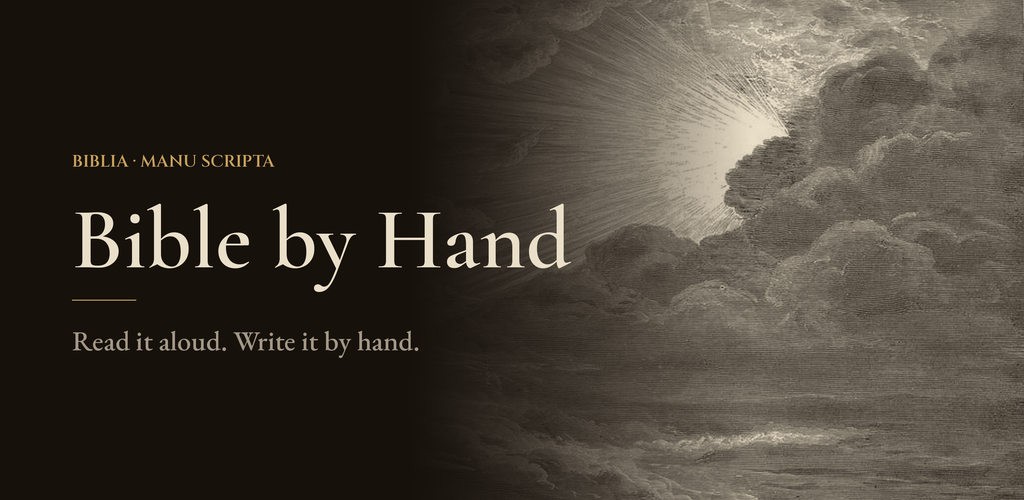
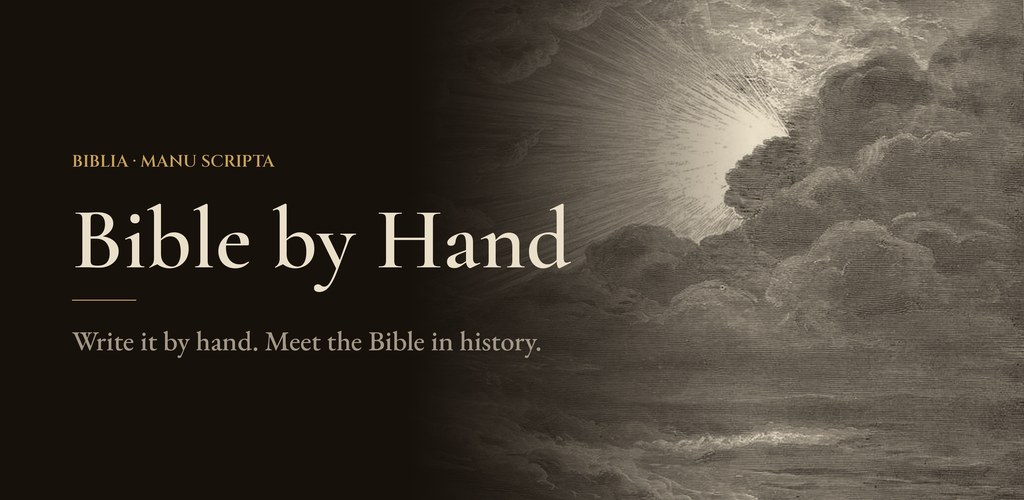
1.5.0 release prep: feature graphics, store slots (History in the Bible replaces Prayer), listing, Play release notes
Claude-Session: https://claude.ai/code/session_01ECt5JBbWXqLioMY8udyyYS

Changed region(s): [[0.0625, 0.66, 0.5312, 0.72]]

diff --git a/scripts/store_frame.py b/scripts/store_frame.py
@@ -7,12 +7,12 @@ R='/home/user/todaybible'; F=R+'/.cache/'; OUT=R+'/docs/store/graphics'
 SRC=sys.argv[1]
 LIGHT=dict(bg=(0xF4,0xEF,0xE6), ink=(0x1F,0x1A,0x15), gilt=(0x9A,0x6B,0x1F), hair=(0xD6,0xCF,0xC2))
 DARK=dict(bg=(0x17,0x11,0x0C), ink=(0xEA,0xDF,0xC8), gilt=(0xC7,0xA3,0x5D), hair=(0x3A,0x32,0x2A))
-NAMES=['intro','today','opener','type','aloud','gallery','prayer','record']
-DARKS={'intro','opener','gallery'}
-CAPS=['BIBLIA · MANU SCRIPTA','HODIE','EXODUS · XIV','SCRIBERE','RESPONSORIUM','COLLECTIO','ORATIO','BIBLIA MEA']
+NAMES=['intro','today','opener','type','aloud','gallery','story','record']
+DARKS={'intro','opener','gallery','story'}
+CAPS=['BIBLIA · MANU SCRIPTA','HODIE','EXODUS · XIV','SCRIBERE','RESPONSORIUM','COLLECTIO','HISTORIA','BIBLIA MEA']
 CAP={
- 'ko':["하루 한 장, 판화와 함께 여는 말씀","오늘 쓸 자리와 기도를 한눈에","장을 펼치면 도레의 판화가 먼저","한 글자씩, 타자로 옮겨 쓰기","인도 목소리와 한 절씩 교독","다 쓴 장마다 판화 한 점이 걸려요","아침부터 밤까지, 말씀으로 기도","쓸수록 채워지는 나만의 성경"],
- 'en':["One chapter a day, opened with an engraving","Today's place and prayer at a glance","Each chapter opens with a Doré engraving","Type it, letter by letter","Read responsively with a narrator","Finish a chapter, hang an engraving","Pray with Scripture, morning to night","Your own Bible, filling up as you write"],
+ 'ko':["하루 한 장, 판화와 함께 여는 말씀","오늘 쓸 자리와 기도를 한눈에","장을 펼치면 도레의 판화가 먼저","한 글자씩, 타자로 옮겨 쓰기","인도 목소리와 한 절씩 교독","다 쓴 장마다 판화 한 점이 걸려요","판화마다 그림 · 장면 · 역사 이야기","쓸수록 채워지는 나만의 성경"],
+ 'en':["One chapter a day, opened with an engraving","Today's place and prayer at a glance","Each chapter opens with a Doré engraving","Type it, letter by letter","Read responsively with a narrator","Finish a chapter, hang an engraving","Every engraving tells its history","Your own Bible, filling up as you write"],
 }
 def var(name, size, w):
     f=ImageFont.truetype(F+name, size)

diff --git a/scripts/store_art.py b/scripts/store_art.py
@@ -27,6 +27,6 @@ def feature(caps, title, sub, tfont, sfont, path):
     d.line([(x,300*S),(x+64*S,300*S)],fill=GILT,width=S)
     d.text((x,322*S),sub,font=font(*sfont),fill=MUTED)
     im.resize((1024,500),Image.LANCZOS).save(path)
-feature('BIBLIA · MANU SCRIPTA','하루의 성경','소리 내어 읽고, 손으로 옮겨 쓰는 성경',('NotoSerifKR[wght].ttf',76*S,600),('NotoSerifKR[wght].ttf',24*S,500),OUT+'/feature_ko.png')
-feature('BIBLIA · MANU SCRIPTA','Bible by Hand','Read it aloud. Write it by hand.',('CormorantGaramond[wght].ttf',88*S,600),('EBGaramond[wght].ttf',28*S,500),OUT+'/feature_en.png')
+feature('BIBLIA · MANU SCRIPTA','하루의 성경','손으로 옮겨 쓰고, 판화로 만나는 역사 속의 성경',('NotoSerifKR[wght].ttf',76*S,600),('NotoSerifKR[wght].ttf',24*S,500),OUT+'/feature_ko.png')
+feature('BIBLIA · MANU SCRIPTA','Bible by Hand','Write it by hand. Meet the Bible in history.',('CormorantGaramond[wght].ttf',88*S,600),('EBGaramond[wght].ttf',28*S,500),OUT+'/feature_en.png')
 print(sorted(os.listdir(OUT)))

diff --git a/docs/store/listing.md b/docs/store/listing.md
@@ -42,6 +42,11 @@
 · 주일 설교 노트: 본문을 적으면 바로 필사, 설교에서 남은 말 몇 줄.
 · 한 장을 마치면 마음에 남은 한 줄. 모두 ‘나의 성경’ PDF에 함께 묶여요.
 
+■ 역사 속의 성경
+· 도레 · 슈노르의 판화마다 그림 · 장면 · 역사 이야기. 밑줄을 누르면 시나이 사본 같은 사료 · 다른 판화가 떠요.
+· 이달의 판화: 달마다 새 판화 넉 점이 화첩 맨 위에 걸려요.
+· 한 권 · 구약 · 신약 · 66권을 다 쓰면 필사 완성 증서 (A4 PDF · 카드).
+
 ■ 나만의 성경
 · 하루 한 장 목표, 이번 주 도장, 한 달 · 한 해 달력.
 · 장을 다 쓰면 도레의 판화가 한 조각씩 드러나는 화첩.
@@ -56,7 +61,7 @@
 ■ 내 기록은 내 폰에만
 · 계정 · 광고 · 분석 도구가 없어요. 필사 · 손글씨 · 녹음은 폰 안에만 있고, 원하시면 내 Google 드라이브에 백업해요.
 
-본문: 개역한글(1961) · World English Bible (공개 도메인) · KJV(1611) · 판화: 귀스타브 도레(1866)
+본문: 개역한글(1961) · World English Bible (공개 도메인) · KJV(1611) · 판화: 귀스타브 도레(1866) · 율리우스 슈노르 폰 카롤스펠트(1860)
 
 ## English (United States, and other English-speaking countries except the UK)
 
@@ -92,6 +97,11 @@ Protestant 66-book Bible · World English Bible (modern English) · King James V
 · Sermon notes: write the passage and copy it at once, plus a few lines you want to keep.
 · One line that stayed with you after each chapter. All of it is bound into your My Bible PDF.
 
+■ The Bible in history
+· Every engraving by Doré and Schnorr tells its picture, scene and history; tap an underlined word to see a source such as the Codex Sinaiticus.
+· Engravings of the month: four new ones hang at the top of the gallery each month.
+· Finish a book, a Testament or the whole Bible to receive a certificate of completion (A4 PDF and card).
+
 ■ Your own Bible
 · One chapter a day, weekly stamps, month and year calendars.
 · Finish a chapter and a Gustave Doré engraving appears piece by piece.
@@ -106,7 +116,7 @@ Protestant 66-book Bible · World English Bible (modern English) · King James V
 ■ Your record stays on your phone
 · No account, no ads, no analytics. Copies, handwriting and recordings stay on your phone, with optional backup to your own Google Drive.
 
-Texts: World English Bible (public domain), King James Version (1611), Korean Revised Version (1961). Engravings: Gustave Doré (1866).
+Texts: World English Bible (public domain), King James Version (1611), Korean Revised Version (1961). Engravings: Gustave Doré (1866), Julius Schnorr von Carolsfeld (1860).
 
 ## 데이터 보안 양식 답 (Play Console)
 

diff --git a/docs/release-1.5.md b/docs/release-1.5.md
@@ -1,0 +1,24 @@
+# 1.5.0 출시 노트 (Play Console › 새 버전 › 출시 노트, 언어마다 500자 이내)
+
+<ko-KR>
+역사 속의 성경
+· 판화마다 그림 · 장면 · 역사 이야기. 밑줄을 누르면 사본 · 다른 판화가 떠요
+· 이달의 판화: 달마다 새 판화 넉 점이 무료로 걸려요 (12월 대림 · 성탄, 2027년 열두 달)
+· 한 권 · 구약 · 신약 · 66권을 다 쓰면 필사 완성 증서 (A4 PDF · 카드)
+· 한 절 · 장 마침 · 판화 · 메달에 작은 효과음 (끌 수 있어요)
+· 새 위젯: 오늘의 말씀 · 다음 기도
+· 되살리기는 합치기로: 폰과 태블릿을 번갈아 써도 기록이 그대로
+· 화면 · PDF · 카드는 앱 언어로, 성경 글만 고른 번역으로
+· 노트 자동 저장, 와이파이에서만 받기 등 작은 수정
+</ko-KR>
+<en-US>
+The Bible in history
+· Every engraving tells its picture, scene and history
+· Engravings of the month: four new ones each month, free
+· Certificate when you finish a book, a Testament or the Bible
+· Small sounds for a verse, a chapter, an engraving, a medal
+· New widgets: today's word, your next prayer
+· Restore merges phone and tablet records
+· Screens and PDFs follow the app language
+· Autosaved notes, Wi-Fi-only downloads, more fixes
+</en-US>
